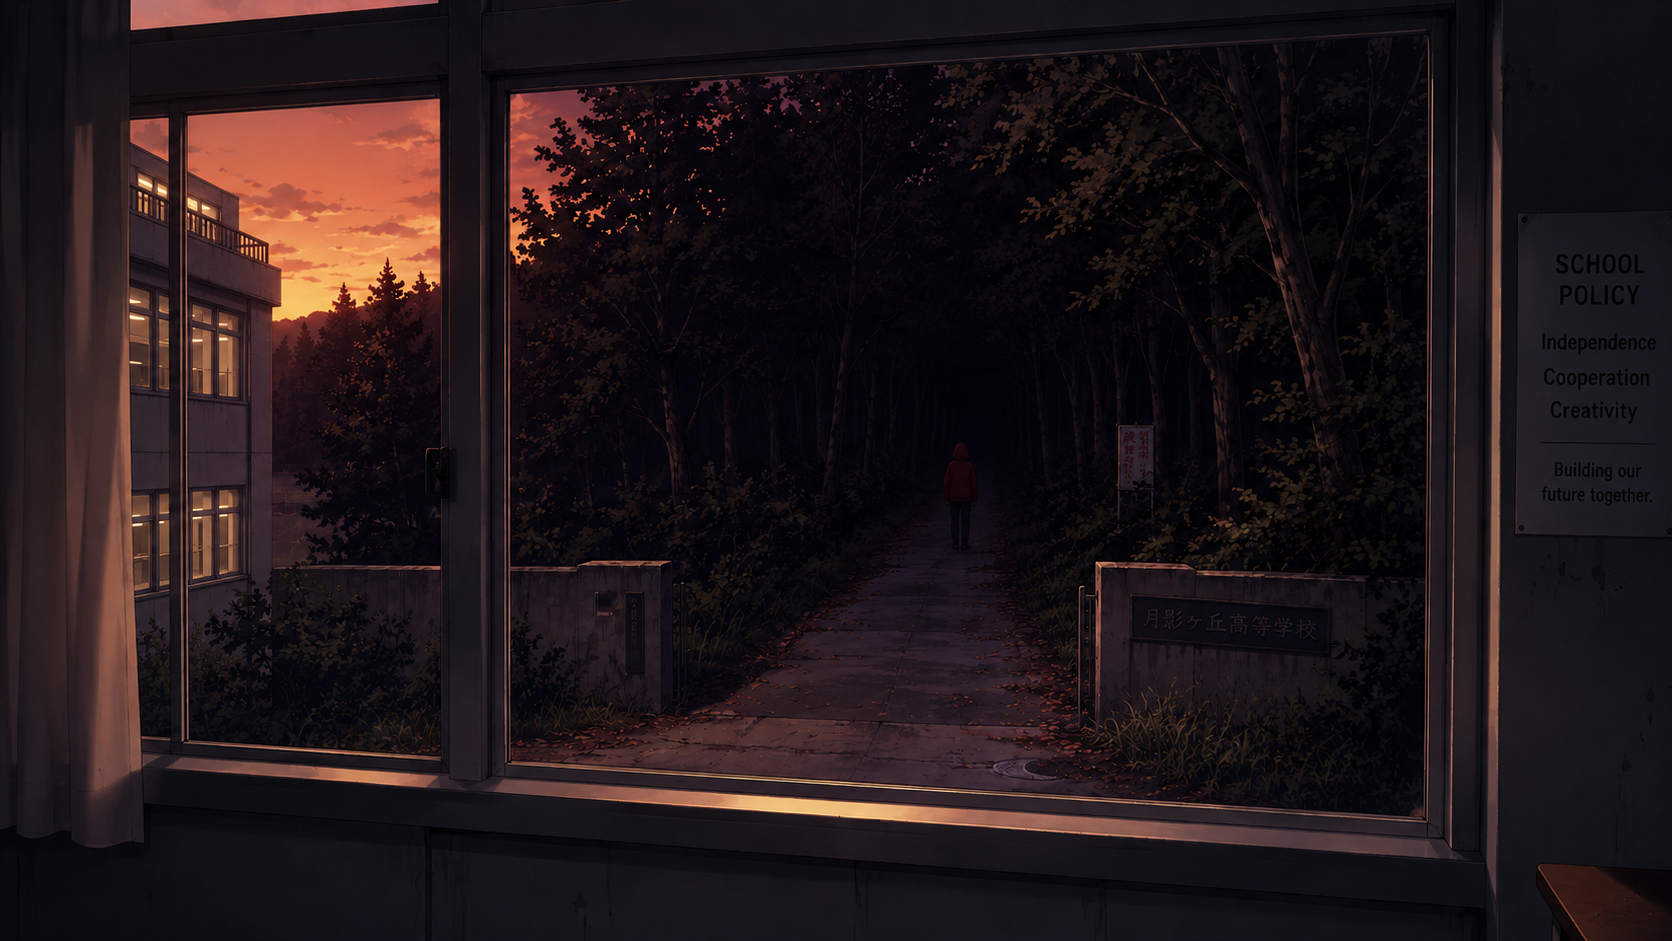
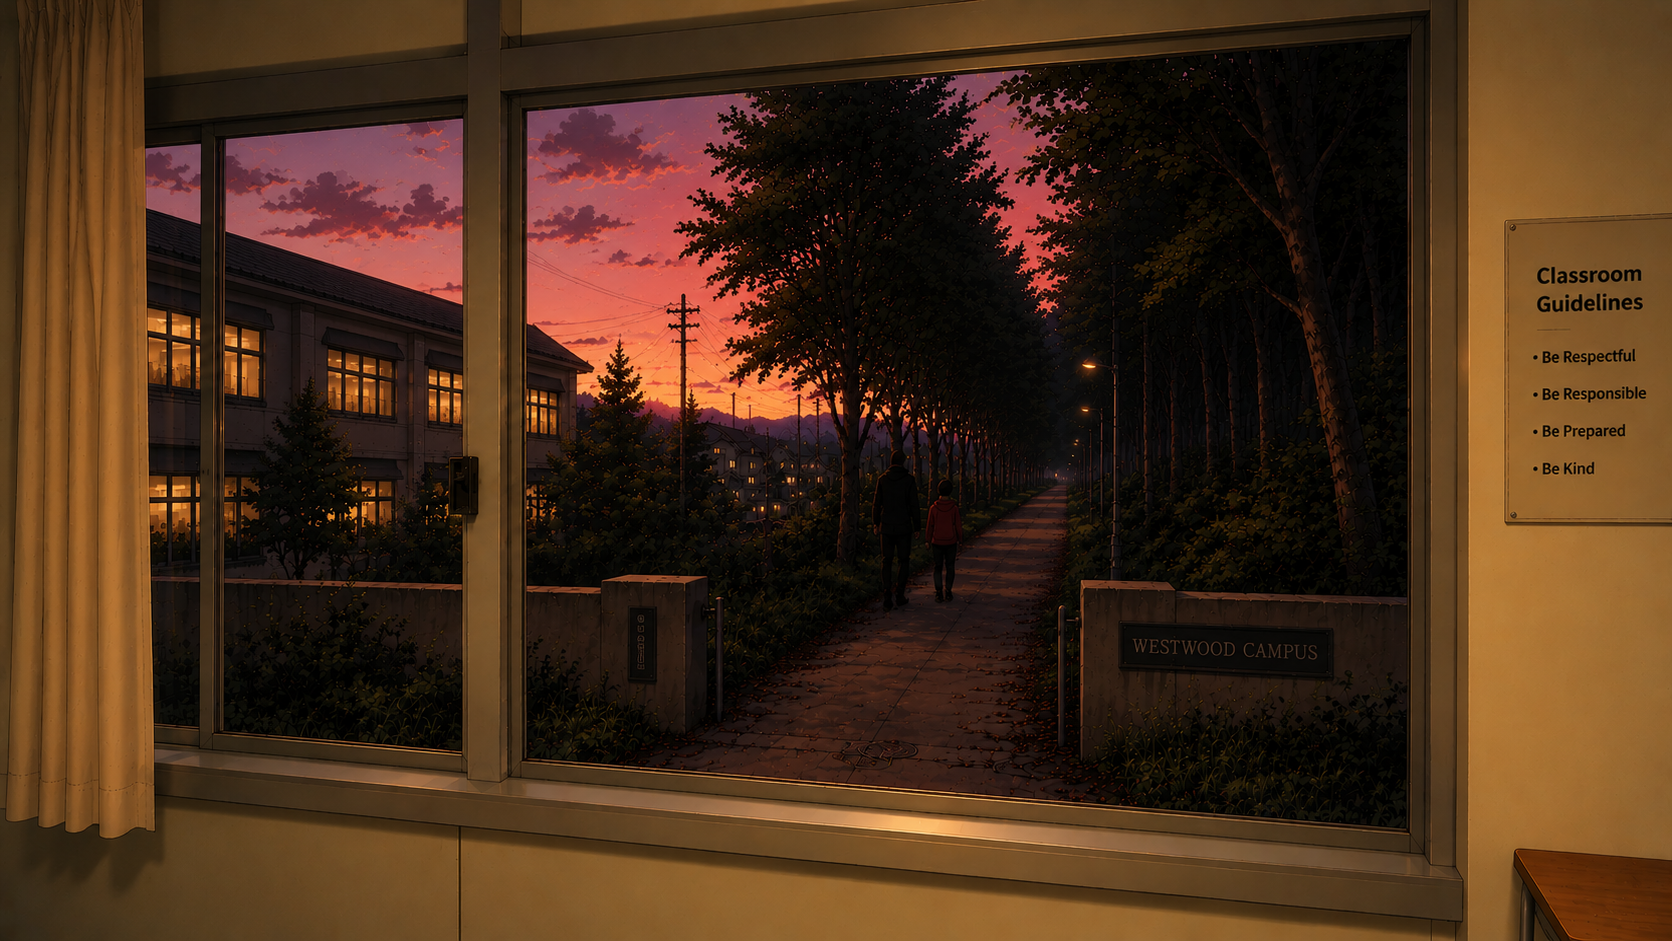
added more backgrounds and fully implemented bg in act2

diff --git a/systems/act2_nodes.py b/systems/act2_nodes.py
@@ -221,7 +221,7 @@ def add_act2_nodes(tree: StoryTree):
         node_type=NodeType.NARRATION,
         act=2,
         text="You grip your pen tighter and stare at the worksheet. Confronting Finn in front of everyone would only make you look crazy.",
-        bg:"physics_class",
+        bg="physics_class",
         next_node_id="act2_wed_finn_class_resumes"
     ))
 
@@ -315,6 +315,7 @@ def add_act2_nodes(tree: StoryTree):
         node_type=NodeType.NARRATION,
         act=2,
         text="At the corner, you and Maya split ways, heading down different streets as the sky fades from orange to deep blue.",
+        bg="street_sunset",
         next_node_id="act2_thu_morning_news_intro"
     ))
 
@@ -334,6 +335,7 @@ def add_act2_nodes(tree: StoryTree):
         node_type=NodeType.NARRATION,
         act=2,
         text="On-screen, a reporter stands near the school gates. A small red cloth is taped off behind her, flapping in the wind.",
+        bg="westwood_day",
         next_node_id="act2_thu_morning_player_reacts"
     ))
 
@@ -344,6 +346,7 @@ def add_act2_nodes(tree: StoryTree):
         speaker="player",
         portrait="shocked",
         text="That's… our school. And that's the red cloth they found?",
+        bg="kitchen_day",
         next_node_id="act2_thu_morning_mom_worried"
     ))
 
@@ -362,6 +365,7 @@ def add_act2_nodes(tree: StoryTree):
         node_type=NodeType.NARRATION,
         act=2,
         text="You promise you'll be careful, grab your bag, and head out, the image of the red cloth burned into your mind.",
+        bg="house_day",
         next_node_id="act2_thu_morning_walk_to_school"
     ))
 
@@ -370,6 +374,7 @@ def add_act2_nodes(tree: StoryTree):
         node_type=NodeType.NARRATION,
         act=2,
         text="The streets to school feel quieter than usual. Fewer kids, more nervous parents watching from doorways.",
+        bg="street_day",
         next_node_id="act2_thu_morning_meet_maya"
     ))
 
@@ -426,6 +431,7 @@ def add_act2_nodes(tree: StoryTree):
         node_type=NodeType.NARRATION,
         act=2,
         text="Later, in the corridor, you spot Dr. Finn at his classroom door. Today, his usual red handkerchief is nowhere to be seen.",
+        bg="hallway_day",
         next_node_id="act2_thu_morning_player_comment"
     ))
 
@@ -480,6 +486,7 @@ def add_act2_nodes(tree: StoryTree):
         node_type=NodeType.NARRATION,
         act=2,
         text="After the final bell, you and Maya linger near the parking lot, pretending to scroll your phones while staff cars slowly pull out.",
+        bg="carpark_sunset",
         next_node_id="act2_thu_after_school_follow_car"
     ))
 
@@ -496,6 +503,7 @@ def add_act2_nodes(tree: StoryTree):
         node_type=NodeType.NARRATION,
         act=2,
         text="The route winds away from school, past familiar shops and into quieter streets lined with worn-down houses.",
+        bg="campus_street",
         next_node_id="act2_thu_outside_house_listen"
     ))
 
@@ -522,6 +530,7 @@ def add_act2_nodes(tree: StoryTree):
         speaker="finn",
         portrait=None,
         text="I'm doing my best, mom. The kids hate me, the pay is awful, and the hospital still wants ten thousand. But I'll figure it out.",
+        bg="finn_sad",
         next_node_id="act2_thu_player_realisation"
     ))
 
@@ -532,6 +541,7 @@ def add_act2_nodes(tree: StoryTree):
         speaker="player",
         portrait="shocked",
         text="He's not some monster… he's just trying to keep his job and pay for her treatment.",
+        bg="campus_street",
         next_node_id="act2_thu_maya_realisation"
     ))
 
@@ -568,6 +578,7 @@ def add_act2_nodes(tree: StoryTree):
         node_type=NodeType.NARRATION,
         act=2,
         text="By the time you and Maya head back toward town, the sun is dipping low. The tracking app blips quietly in your pocket.",
+        bg="street_sunset",
         next_node_id="act2_end_of_act2"
     ))
 
